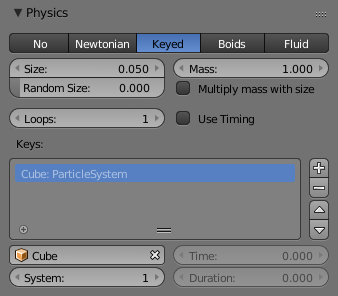
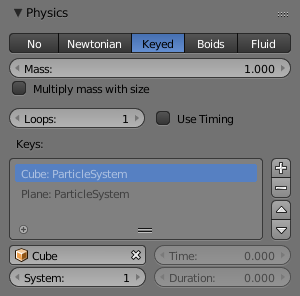
Particle Instance modifier, Keyed physics too detailed, some refers to version 2.4 example blend-files not working
git-svn-id: https://svn.blender.org/svnroot/bf-manual/trunk@4358 c4de1f47-6596-e411-a384-0024e86c2797

diff --git a/blender_docs/manual/modeling/modifiers/simulate/particle_instance.rst b/blender_docs/manual/modeling/modifiers/simulate/particle_instance.rst
@@ -6,75 +6,37 @@
 Particle Instance Modifier
 **************************
 
-When a Particle Instance Modifier is added to an object, that object will be used
+When a *Particle Instance* modifier is added to an object, that object will be used
 as a particle shape on an object which has a particle system associated with it. This means
-that to use this modifier you must also have another object which has a particle system on it,
-otherwise the Particle Instance Modifier will appear to do nothing.
+that to use this modifier you must also have another object which has a particle system on it.
 
-.. figure:: /images/modeling_modifiers_simulate_particle-instance_planes.jpg
-   :width: 500px
-
-   Particle system on left has no Particle Instance modified object associated with it.
-   The one on the right is associated with cube shown by using a Particle Instance Modifier on the cube.
+Because of the co-dependent way in which the *Particle Instance* modifier is
+influenced by the underlying particle systems on other objects, some of the apparent effects
+generated by the modifier can look and act vastly different,
+depending on the underlying settings of the particle systems it is associated with. This is
+worth taking account of if the *Particle Instance* modifier settings do not appear to
+be giving the results expected.
 
 
 Options
 =======
 
 .. figure:: /images/modeling_modifiers_simulate_particle-instance_panel.png
-   :width: 370px
 
    Particle Instance Modifier.
 
-Because of the co-dependent way in which the Particle Instance Modifier is
-influenced by the underlying particle systems on other objects, some of the apparent effects
-generated by the Particle Instance Modifier can look and act vastly different,
-depending on the underlying settings of the particle systems it is associated with. This is
-worth taking account of if the Particle Instance Modifier settings do not appear to
-be giving the results expected, as it may indicate that the particle system settings may need
-altering rather than the Particle Instance Modifier settings.
-
 Object
-   The *Object* field, associates this Particle Instance Modifier with another object
-   (usually an object having a particle system...).
+   The name of an object which has a particle system associated with it.
    This indicates that when the object named in this field emits particles, those
-   particles will have the mesh shape of the current Particle Instance Modifier's mesh.
-   If for example a sphere has a Particle Instance Modifier added to it, when the *Object* field
-   of this modifier is filled in with the name of an object that emits particles,
-   those particles will be sphere-shaped.
-   Even though most of the time the *Object* field will have the name of an object with a particle
-   system, this is not mandatory, you can enter an object's name which does not have a particle system, and
-   it will be accepted by the *Object* field, as there do not appear to be any checks
-   made to make sure the object's name entered into this field is "valid".
+   particles will have the mesh shape of the current *Particle Instance* modifier's mesh.
 Particle System
    The *Particle System* field is used to select
-   which particle system number to apply the Particle Instance Modifier to,
+   which particle system to apply the *Particle Instance* modifier to,
    when the mesh which has the particle system on it has more than one of these.
-   The *Particle System* field can have a value between (1 to 10).
-   It is possible to select any of the ten particle system numbers, however, a check will **not** be made with
-   the underlying particle emitting object specified previously in the *Object* field.
-   If you select a particle system number which does not exist on the particle emitting object, then the particles on
-   the emitting mesh will keep their normal particle shapes. No warning will be given that the chosen particle
-   system does not exist on a particular particle emitting mesh.
-
-   As an example, below is a single plane mesh with two areas (the first area shown in red and the second in white),
-   with different particle systems applied to each area. The left side using a Particle Instance Modifier
-   which has the shape of a sphere and the right side having a Particle Instance Modifier
-   which has the shape of a cube.
-
-   .. figure:: /images/modeling_modifiers_simulate_particle-instance_split-plane.jpg
-      :width: 610px
-
-      Render showing a single Plane mesh object assigned to two different vertex groups
-      and each of those vertex groups is assigned a separate and independent particle system,
-      with each particle system being assigned a different Particle Instance modifier.
-      In the case shown the Particle Instance modifiers are a sphere and a cube.
-      `Example blend-file
-      <https://wiki.blender.org/index.php/Media:Manual_-_Modifiers_-_Particle_Instance_Modifiers_-_Split_Plane.blend>`__.
 
 
-Creation
---------
+Create From
+-----------
 
 Normal
    When selected, the *Normal* button tells the Particle Instance Modifier
@@ -90,9 +52,17 @@ Size
    Scale the instanced objects by the particle size attribute.
    When this is disabled, all the copies appear the same size as the origin.
 
+Space
+   World, Local
+      (Todo)
+Amount
+   (Todo)
+Offset
+   (Todo)
 
-Display
--------
+
+Show Particles When
+-------------------
 
 Unborn
    When selected, the *Unborn* button tells the modifier
@@ -120,9 +90,6 @@ Create Along Paths
    This option tries to make the underlying mesh object of the modifier
    deform its mesh shape in such a way as to try and match the path traveled by
    the particles/hair strands of the system associated with it.
-   For example, below is a screenshot showing the path of a single keyed
-   particle as it travels its way through each of the different way points (1 to 4) (target particle systems),
-   when it reaches way point 4 the particle dies and ends its journey.
 Rotation Axis
    Specify which pole axis to use for the rotation.
 
@@ -133,95 +100,60 @@ Keep Shape
 Position
    Specify what percentage of the path the object fills.
    You could create a growing effect by animating this value over time.
+Rotation
+   (Todo)
 Random
-   Scales the position value of each instance a random value.
+   Scales the Position/Rotation value of each instance a random value.
 
-.. figure:: /images/modeling_modifiers_simulate_particle-instance_keyed-particle-example1.png
-   :width: 500px
 
-   Keyed particle following way points (showing one particle).
-   `Example blend-file
-   <https://wiki.blender.org/index.php/Media:Manual_-_Particle_Instance_Modifier_-_Keyed_Particle_Example_1.blend>`__.
+Layers
+------
 
-When a Particle Instance Modifier is added to a cylinder object
-and then associated with the way point particle system,
-the particle position is copied by the cylinder and placed at the particles position.
-So the mesh object follows the location of the particle.
-The cylinder does not alter any of its other properties when following the particle,
-only the cylinders location gets altered, shape and rotation do not get altered.
-See screenshot below:
+Index Layer
+   (Todo)
+Value Layer
+   (Todo)
 
-.. figure:: /images/modeling_modifiers_simulate_particle-instance_keyed-particle-example2.png
-   :width: 500px
 
-   Keyed particle following way points showing a mesh object
-   (Particle Instance Modifier) in place of the original particle.
-   `Example blend-file
-   <https://wiki.blender.org/index.php/Media:Manual_-_Particle_Instance_Modifier_-_Keyed_Particle_Example_2.blend>`__.
+Examples
+========
 
-Both of the above examples had the Particle Instance Modifier *Path* button deactivated.
-When the *Path* button is activated the effect can be seen in the screenshot below:
+.. figure:: /images/modeling_modifiers_simulate_particle-instance_split-plane.jpg
+   :width: 600px
 
-.. figure:: /images/modeling_modifiers_simulate_particle-instance_keyed-particle-example3.png
-   :width: 500px
+   Particle Instance modifier example.
 
-   Keyed particle following way points showing a mesh object (Particle Instance Modifier)
-   in place of the original particle, that is also being deformed to fit the travel path of the original particle.
-   `Example blend-file
-   <https://wiki.blender.org/index.php/Media:Manual_-_Particle_Instance_Modifier_-_Keyed_Particle_Example_3.blend>`__.
+The render above showing a single plane mesh object assigned to two different vertex groups
+and each of those vertex groups is assigned a separate and independent particle system,
+with each particle system being assigned a different Particle Instance modifier.
+In the case shown the Particle Instance modifiers are a sphere and a cube.
+See `example blend-file
+<https://en.blender.org/uploads/4/48/Manual_-_Modifiers_-_Particle_Instance_Modifiers_-_Split_Plane.blend>`__.
 
-Instead of the cylinder location just following the position of the particle (and not altering its shape),
+.. figure:: /images/modeling_modifiers_simulate_particle-instance_create-along-paths.jpg
+   :width: 600px
+
+   Create Along Path example.
+
+In this example, a single *Keyed* particle travels through four points (green planes),
+on an elliptical path. The *Particle Instance* modifier is added to a cylinder object
+and then associated with that *Keyed* particle system.
+
+When the *Create Along Paths* is activated,
+instead of the cylinder location just following the position of the particle,
 the cylinder tries to fit its mesh to the shape of the path followed by the particle.
 The mesh geometry of the object which is trying to deform
 can have an impact on how well the deformation is carried out.
 In the case of the cylinder, it has many loop cuts along its length so
 that it can bend at those points to deform along the particle path.
-For example here is the same scene with the number of loop cuts along the length of the cylinder reduced,
-showing the effect on the deformation of the cylinder along the particle path.
 
-   .. list-table::
-
-      * - .. figure:: /images/modeling_modifiers_simulate_particle-instance_keyed-particle-example4.png
-             :width: 320px
-
-             The cylinder has most of its edge loops so most of the path deform is very regular
-             apart from at the very end of the curve.
-
-        - .. figure:: /images/modeling_modifiers_simulate_particle-instance_keyed-particle-example5.png
-             :width: 320px
-
-             The cylinder has some of its edge loops removed so the path of the deform starts to become less regular.
-
-      * - .. figure:: /images/modeling_modifiers_simulate_particle-instance_keyed-particle-example6.png
-             :width: 320px
-
-             Now the deform path is very rough.
-
-        - .. figure:: /images/modeling_modifiers_simulate_particle-instance_keyed-particle-example7.png
-             :width: 320px
-
-             At this point there are not any vertices to bend the cylinder to follow the path,
-             and instead the cylinder just goes directly to the last way point 4.
-
-Once all the extra edge loops around cylinder are removed so that there is only the top and bottom vertices left,
-meaning that the cylinder does not have enough geometry to bend,
-in that case it cannot follow the path of the particle,
-so it just goes from the start way point 1 to the ending way point 4.
-The Particle Instance Modifier *Path* button works for hair (strand)
-particles as well as with keyed particles.
-In this case the mesh of the Particle Instance Modifier will follow the length and profile of the hair strands paths.
-Below is a screenshot showing the effect of the *Path* button on hair:
-
-.. figure:: /images/modeling_modifiers_simulate_particle-instance_strand-mesh-deform.png
-   :width: 500px
-
-   Strand with a Particle Instance Modifier associated with it and deforming the cylinder along the hair profile.
-   `Example blend-file
-   <https://wiki.blender.org/index.php/Media:Manual_-_Particle_Instance_Modifier_-_Strand_Mesh_Deform.blend>`__.
+The Particle Instance modifier *Create Along Paths* button works for hair (strand)
+particles as well as with keyed particles. In this case the mesh of the Particle Instance modifier
+will follow the length and profile of the hair strands paths.
 
 .. note::
 
-   Strands when they are generated instantly die when created so for the *Path* button
+   Strands when they are generated instantly die when created so for the *Create Along Paths* button
    to be of any use, you must also have the *Dead* button activated.
    Otherwise the path a mesh has taken will not be visible!
 

diff --git a/blender_docs/manual/physics/particles/emitter/physics/keyed.rst b/blender_docs/manual/physics/particles/emitter/physics/keyed.rst
@@ -16,22 +16,12 @@ Keyed
 
    Keyed Physics settings.
 
-The particle paths of keyed particles are determined from the emitter to another particle
+The paths of keyed particles are determined from the emitter to another particle
 system's particles. This allows creation of chains of systems with keyed physics to create
 long strands or groovy moving particles. Basically the particles have no dynamics but are
 interpolated from one system to the next at draw-time.
 
-
-Setup
-=====
-
-To setup Keyed particles you need at least two particle systems.
-
-The first system has keyed physics, and it needs the option First activated.
-This will be the system that is visible.
-
-The second system may be another keyed system but without the option *First*,
-or a normal particle system. This second system is the target of the keyed system.
+To setup *Keyed* particles you need at least two particle systems in the *Keys* list.
 
 
 Options
@@ -40,6 +30,9 @@ Options
 Loops
    Sets the number of times the keys are looped. Disabled if *Use Timing* is enabled.
 
+   .. (wip) how many times we go through Keys list
+      start at first key, move through list to the last key
+      go to the first key again... and then die at the last key
 
 Keys
 ----
@@ -50,6 +43,15 @@ Key Targets
 
    Click the :kbd:`Plus` to add a key, then select the object.
 
+Object
+   The name of a target object for selected key. If empty it uses the current particle system.
+System
+   Index of particle system on the target object.
+Time
+   (Todo)
+Duration
+   (Todo)
+
 If you use only one keyed system the particles will travel in their lifetime from the emitter
 to the target. A shorter lifetime means faster movement.
 If you have more than one keyed system in a chain, the lifetime will be split equally.
@@ -58,6 +60,8 @@ This may lead to varying particle speeds between the targets.
 
 Timing
 ------
+
+.. (Todo) need review, description of 2.4x
 
 Use Timing
    Timing works together with the Time slider for the other keyed systems in a chain.
